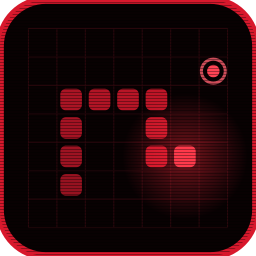
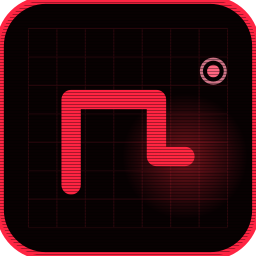
Snake is one continuous stroke at a single colour; lit palette +50 %
- body drawn as a rounded-cap polyline through the cell centres (sub-path restarts across
  a wrap), one colour head to tail; the head keeps a soft aura rather than a brighter body
- BOOST = 1.5 on the lit phosphor colours (TRAIL/LIT/HOT/PEAK/TEXT/BEZEL); embers, grid
  and bezel furniture unchanged so contrast stays
- icon drawn the same way; README screenshot refreshed

Changed region(s): [[0.0, 0.0, 1.0, 1.0], [0.2188, 0.3438, 0.7812, 0.7812], [0.7812, 0.2188, 0.9062, 0.3438]]

diff --git a/phosphor_snake.py b/phosphor_snake.py
@@ -26,27 +26,29 @@ import cairo
 def rgb(h: int) -> tuple[float, float, float]:
     return ((h >> 16 & 255) / 255, (h >> 8 & 255) / 255, (h & 255) / 255)
 
-BG = rgb(0x050001)        # window / outside the bezel
-DISC = rgb(0x080102)      # the field
-GRID = rgb(0x2a070c)      # scope furniture
-LINE = rgb(0x3a0a10)
-DIM = rgb(0x1d0508)       # embers
-TRAIL = rgb(0x7a101c)     # phosphor persistence
-LIT = rgb(0xd8182c)       # lit segments / body
-HOT = rgb(0xff4455)       # the tip / head
-PEAK = rgb(0xff6070)      # peak-hold marker
-BLOOM = rgb(0xff2a3c)
-TEXT = rgb(0xff2a3d)
-TEXT_DIM = rgb(0xa0141f)
-BEZEL = rgb(0xd8182c)
-FONT = "DejaVu Sans Mono"
-
 def mix(a, b, t):
     t = max(0.0, min(1.0, t))
     return (a[0] + (b[0] - a[0]) * t, a[1] + (b[1] - a[1]) * t, a[2] + (b[2] - a[2]) * t)
 
 def scale(c, k):
     return (min(1, c[0] * k), min(1, c[1] * k), min(1, c[2] * k))
+
+BOOST = 1.5               # the lit phosphor sits 50 % above the scene palette so the red pops on a dark room's monitor
+BG = rgb(0x050001)        # window / outside the bezel
+DISC = rgb(0x080102)      # the field
+GRID = rgb(0x2a070c)      # scope furniture
+LINE = rgb(0x3a0a10)
+DIM = rgb(0x1d0508)       # embers
+TRAIL = scale(rgb(0x7a101c), BOOST)   # phosphor persistence
+LIT = scale(rgb(0xd8182c), BOOST)     # lit segments
+HOT = scale(rgb(0xff4455), BOOST)     # the tip
+PEAK = scale(rgb(0xff6070), BOOST)    # peak-hold marker
+BLOOM = rgb(0xff2a3c)
+TEXT = scale(rgb(0xff2a3d), BOOST)
+TEXT_DIM = scale(rgb(0xa0141f), BOOST)
+BEZEL = scale(rgb(0xd8182c), BOOST)
+SNAKE = LIT                           # one colour, head to tail
+FONT = "DejaVu Sans Mono"
 
 # ---------------------------------------------------------------------------------------------- game
 DIRS = {"up": (0, -1), "down": (0, 1), "left": (-1, 0), "right": (1, 0)}
@@ -358,25 +360,27 @@ class Renderer:
             cr.set_source_rgb(*mix(LIT, HOT, pulse)); cr.arc(fxp, fyp, cell * 0.28, 0, 2 * math.pi); cr.fill()
             cr.set_source_rgba(*PEAK, 0.5 + 0.4 * pulse); cr.set_line_width(1.2)
             cr.arc(fxp, fyp, cell * (0.42 + 0.1 * pulse), 0, 2 * math.pi); cr.stroke()
-        # snake: tail → head, TRAIL → LIT, head HOT with bloom
+        # snake: one continuous rounded stroke through the cell centres, one colour head to tail (a sub-path
+        # restarts where the body wraps across the field edge); the head gets a soft aura, not a brighter body
         n = len(g.snake)
-        for i in range(n - 1, -1, -1):
-            cx, cy = g.snake[i]
-            k = 1 - i / max(1, n - 1)                       # 0 at tail, 1 at head
-            col = mix(TRAIL, LIT, 0.35 + 0.65 * k)
-            if i == 0:
-                col = HOT
-            if g.state == "over":
-                col = mix(col, DIM, 1 - g.burst)
-            cr.set_source_rgb(*col)
-            inset = 2 if i == 0 else 3
-            self.rrect(cr, gx + cx * cell + inset, gy + cy * cell + inset, cell - inset * 2, cell - inset * 2, 3)
-            cr.fill()
+        if n:
+            col = SNAKE if g.state != "over" else mix(SNAKE, DIM, 1 - g.burst)
+            cr.set_line_cap(cairo.LINE_CAP_ROUND); cr.set_line_join(cairo.LINE_JOIN_ROUND); cr.set_line_width(cell * 0.68)
+            cr.new_path()
+            prev = None
+            for cx, cy in g.snake:
+                px, py = gx + (cx + 0.5) * cell, gy + (cy + 0.5) * cell
+                if prev is None or abs(cx - prev[0]) + abs(cy - prev[1]) != 1:
+                    cr.move_to(px, py); cr.line_to(px, py)      # a zero-length segment still draws its round cap
+                else:
+                    cr.line_to(px, py)
+                prev = (cx, cy)
+            cr.set_source_rgb(*col); cr.stroke()
         if n and g.state != "over":
             hx, hy = g.snake[0]
             hxp, hyp = gx + (hx + 0.5) * cell, gy + (hy + 0.5) * cell
-            grad = cairo.RadialGradient(hxp, hyp, 0, hxp, hyp, cell * 2.2)
-            grad.add_color_stop_rgba(0, *BLOOM, 0.28 + 0.3 * g.hit); grad.add_color_stop_rgba(1, *BLOOM, 0)
+            grad = cairo.RadialGradient(hxp, hyp, cell * 0.3, hxp, hyp, cell * 2.2)
+            grad.add_color_stop_rgba(0, *BLOOM, 0.3 + 0.3 * g.hit); grad.add_color_stop_rgba(1, *BLOOM, 0)
             cr.set_source(grad); cr.arc(hxp, hyp, cell * 2.2, 0, 2 * math.pi); cr.fill()
         # -- HUD on the field
         self.text(cr, margin, margin + 14, "SERPENT LINK PROTOCOL // FIELD TELEMETRY", 11, TEXT_DIM, glow=0.15)
@@ -473,9 +477,10 @@ def render_icon(path: str, size: int = 256) -> None:
         cr.rectangle(k * cell - 0.5, cell, 1, size - 2 * cell); cr.rectangle(cell, k * cell - 0.5, size - 2 * cell, 1)
     cr.fill()
     body = [(2, 6), (2, 5), (2, 4), (2, 3), (3, 3), (4, 3), (5, 3), (5, 4), (5, 5), (6, 5)]
+    cr.set_line_cap(cairo.LINE_CAP_ROUND); cr.set_line_join(cairo.LINE_JOIN_ROUND); cr.set_line_width(cell * 0.68)
     for i, (x, y) in enumerate(body):
-        col = HOT if i == len(body) - 1 else mix(TRAIL, LIT, 0.3 + 0.7 * i / len(body))
-        cr.set_source_rgb(*col); r.rrect(cr, x * cell + cell * 0.12, y * cell + cell * 0.12, cell * 0.76, cell * 0.76, cell * 0.2); cr.fill()
+        (cr.move_to if i == 0 else cr.line_to)((x + 0.5) * cell, (y + 0.5) * cell)
+    cr.set_source_rgb(*SNAKE); cr.stroke()
     hx, hy = 6.5 * cell, 5.5 * cell
     g = cairo.RadialGradient(hx, hy, 0, hx, hy, cell * 2.2); g.add_color_stop_rgba(0, *BLOOM, 0.45); g.add_color_stop_rgba(1, *BLOOM, 0)
     cr.set_source(g); cr.arc(hx, hy, cell * 2.2, 0, 2 * math.pi); cr.fill()
